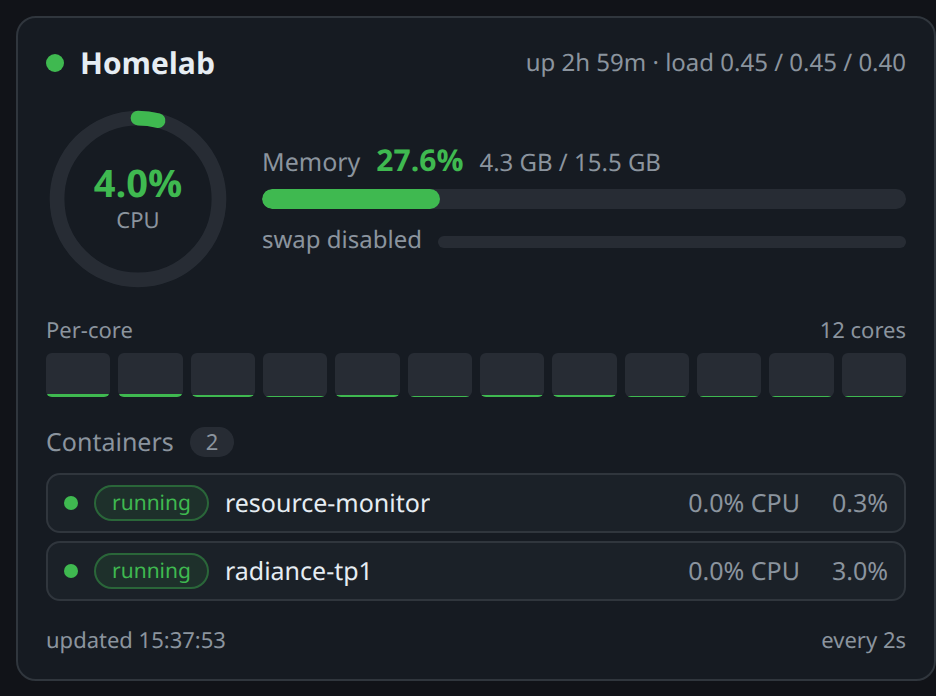
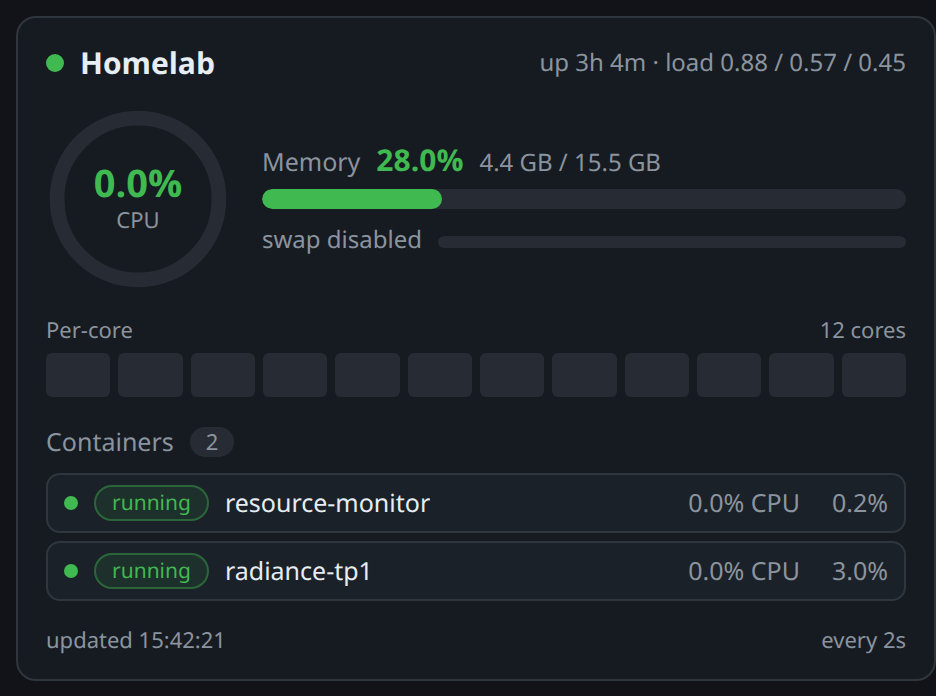
Polish card layout, error states and docs
- per-core bars moved to a full-width strip; container queries adapt the
  layout to narrow dashboard columns
- loading state uses a neutral banner instead of the error style
- surface the monitor's Docker error message instead of a bare status code
- preview screenshot in the README

diff --git a/resource-monitor-card.js b/resource-monitor-card.js
@@ -427,12 +427,17 @@
       let containers = null;
       let containerError = null;
       if (contRes.ok) {
-        const payload = await contRes.json();
-        if (payload && payload.error) containerError = payload.error;
+        const payload = await contRes.json().catch(() => null);
+        if (payload && payload.error) containerError = String(payload.error);
         else if (payload && Array.isArray(payload.containers)) containers = payload.containers;
         else containerError = "unexpected /api/containers payload";
-      } else if (contRes.status !== 401 && contRes.status !== 403) {
-        containerError = `Docker stats: HTTP ${contRes.status}`;
+      } else if (contRes.status === 401 || contRes.status === 403) {
+        containerError = "Unauthorized — check the monitor token in the card config.";
+      } else {
+        // The monitor reports daemon problems as {"error": "..."} with a 5xx.
+        const payload = await contRes.json().catch(() => null);
+        containerError =
+          (payload && payload.error) || `Docker stats: HTTP ${contRes.status}`;
       }
 
       return { system, containers, containerError };
